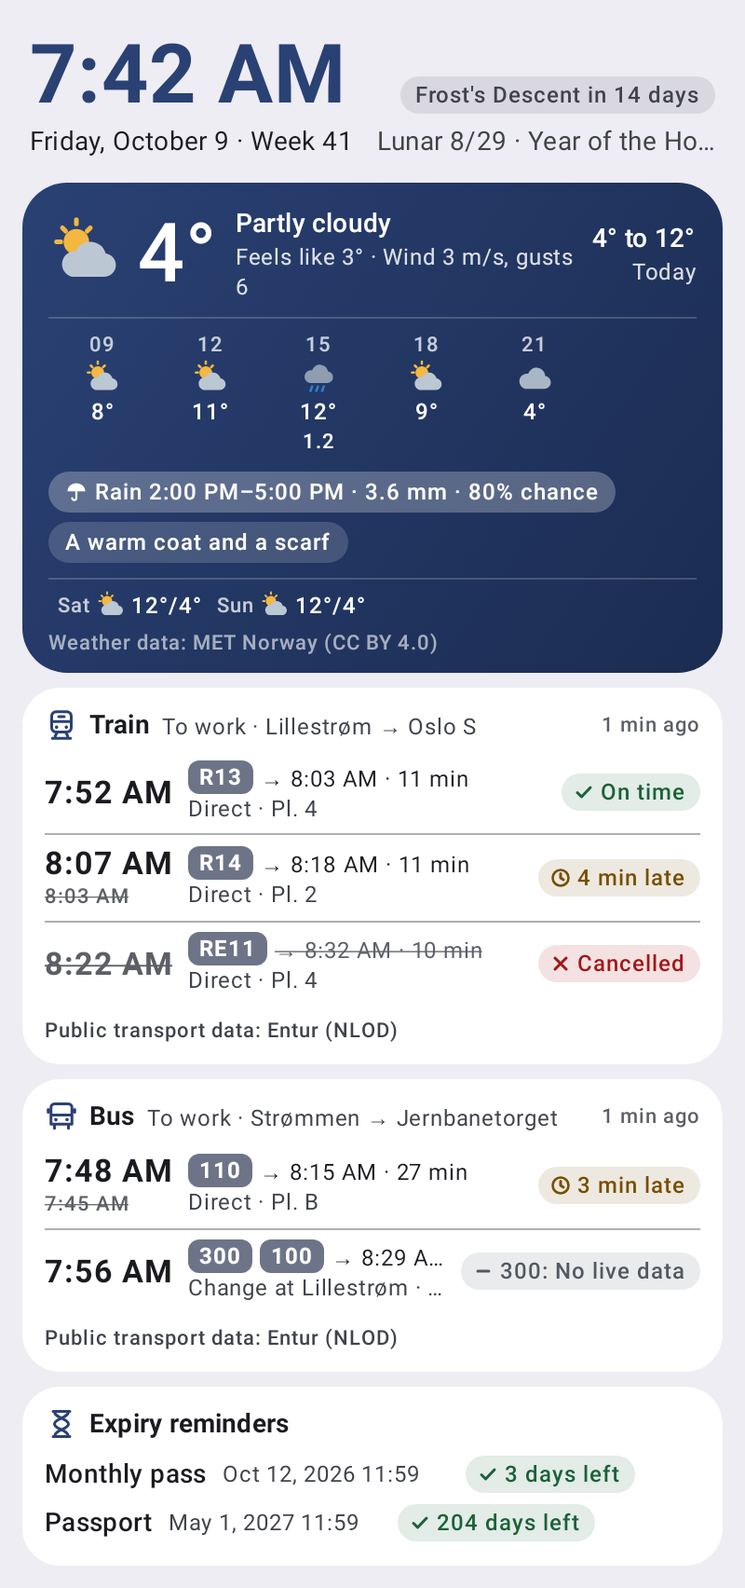
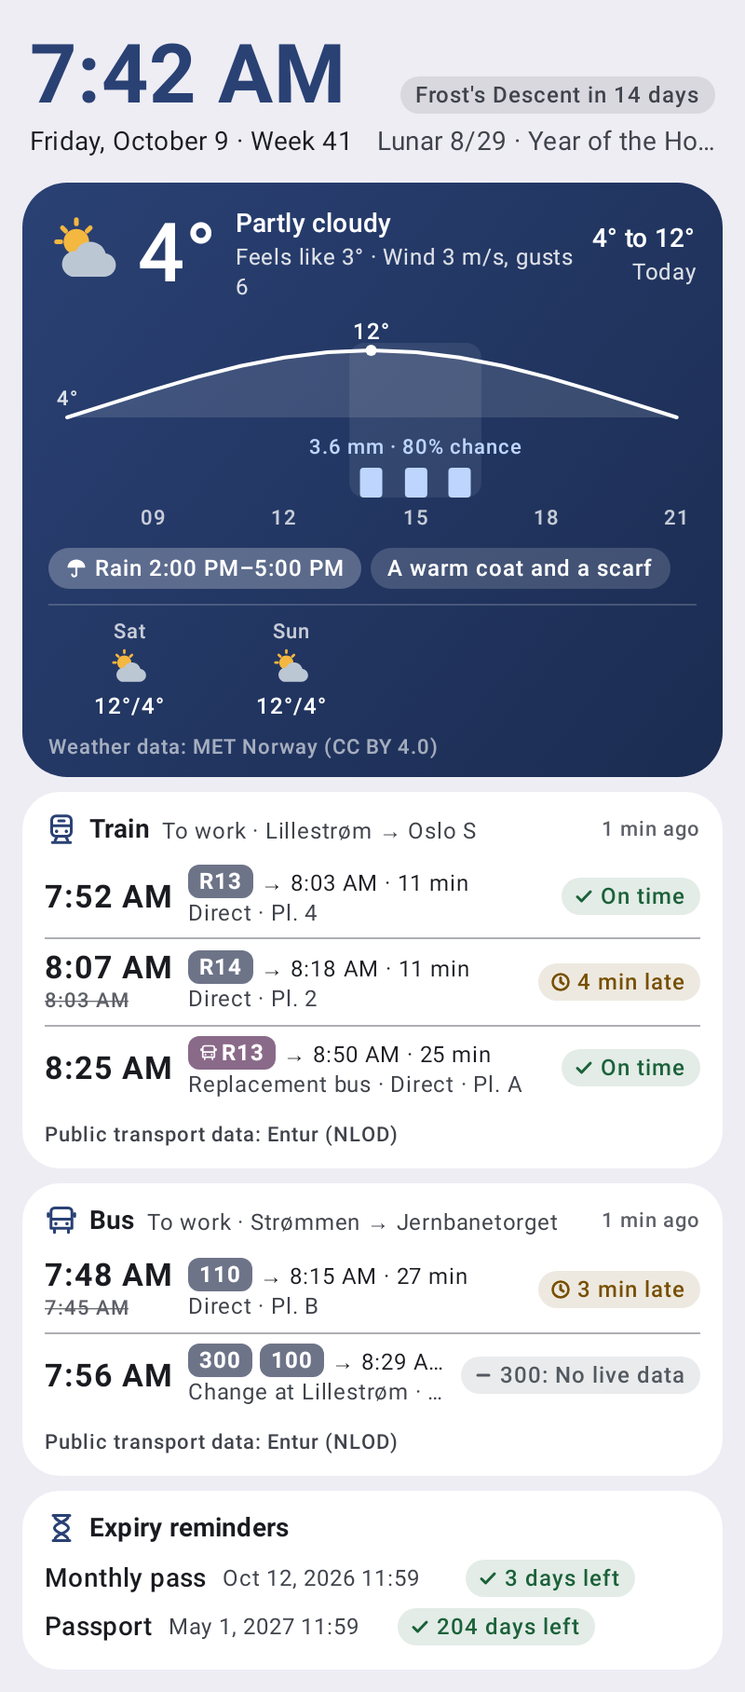
Draw the day as a temperature curve with rain bars
Option A from the weather card proposals. The day's hours become a curve with its high and low marked, rain bars on
their own scale underneath, rain spells shaded and labelled with amount and chance, and the hour every three hours;
it is drawn on one time axis, so curve and bars line up at any width. The outlook keeps every daytime hour instead of
one point per three hours. Advice pills now fit one row (the chart carries the amounts) and the next four days are
stacked columns. README screenshots updated.

把这一天画成温度曲线加雨量柱

采用天气卡片方案 A。这一天的各小时画成一条标出最高与最低的曲线，下方是按自己比例画的雨量柱，降雨时段加底色并标注
雨量与概率，每三小时标一个钟点；画在同一条时间轴上，任何宽度下曲线与雨量柱都对得齐。outlook 改为保留白天的每个
小时，而不是每三小时一个点。建议胶囊排成一行（雨量交给图表），之后四天改为上下排列的四列。README 截图同步更新。

Claude-Session: https://claude.ai/code/session_01UtL9jC5HiMDx1fZLRAYQa4

Changed region(s): [[0.0312, 0.0311, 0.9688, 0.9642], [0.5312, 0.902, 0.8438, 0.9953]]

diff --git a/app/src/main/java/io/github/lonemoonspace/dayloom/feature/weather/ui/WeatherCard.kt b/app/src/main/java/io/github/lonemoonspace/dayloom/feature/weather/ui/WeatherCard.kt
@@ -3,6 +3,7 @@ package io.github.lonemoonspace.dayloom.feature.weather.ui
 import androidx.annotation.DrawableRes
 import androidx.annotation.StringRes
 import androidx.compose.animation.animateContentSize
+import androidx.compose.foundation.Canvas
 import androidx.compose.foundation.Image
 import androidx.compose.foundation.background
 import androidx.compose.foundation.isSystemInDarkTheme
@@ -29,11 +30,22 @@ import androidx.compose.runtime.remember
 import androidx.compose.ui.Alignment
 import androidx.compose.ui.Modifier
 import androidx.compose.ui.draw.clip
+import androidx.compose.ui.geometry.CornerRadius
+import androidx.compose.ui.geometry.Offset
+import androidx.compose.ui.geometry.Size
 import androidx.compose.ui.graphics.Brush
 import androidx.compose.ui.graphics.Color
+import androidx.compose.ui.graphics.Path
+import androidx.compose.ui.graphics.StrokeCap
+import androidx.compose.ui.graphics.StrokeJoin
+import androidx.compose.ui.graphics.drawscope.Stroke
 import androidx.compose.ui.graphics.lerp
 import androidx.compose.ui.res.painterResource
 import androidx.compose.ui.res.stringResource
+import androidx.compose.ui.semantics.contentDescription
+import androidx.compose.ui.semantics.semantics
+import androidx.compose.ui.text.drawText
+import androidx.compose.ui.text.rememberTextMeasurer
 import androidx.compose.ui.text.font.FontWeight
 import androidx.compose.ui.text.style.TextOverflow
 import androidx.compose.ui.unit.Dp
@@ -57,7 +69,6 @@ import io.github.lonemoonspace.dayloom.feature.weather.domain.DayOutlook
 import io.github.lonemoonspace.dayloom.feature.weather.domain.DayOutlookPolicy
 import io.github.lonemoonspace.dayloom.feature.weather.domain.Forecast
 import io.github.lonemoonspace.dayloom.feature.weather.domain.ForecastPoint
-import io.github.lonemoonspace.dayloom.feature.weather.domain.HourWeather
 import io.github.lonemoonspace.dayloom.feature.weather.domain.OutlookDay
 import io.github.lonemoonspace.dayloom.feature.weather.domain.WeatherCondition
 import io.github.lonemoonspace.dayloom.feature.weather.domain.WeatherIcon
@@ -70,10 +81,10 @@ import kotlin.math.roundToInt
 
 /**
  * The weather card for Home, one block in the theme's primary colour (the same on every day, whatever the weather): the
- * weather now, a few hours across the day (today, or tomorrow from the evening on), advice pills for rain, clothing and
- * tips, and the next four days.
- * 家所在地的天气卡，一整块主题主色（不随天气变色）：现在的天气、这一天（今天；入夜后为明天）的几个时间点、降雨、穿衣与
- * 提示的建议胶囊，以及之后四天。
+ * weather now, the day's temperature curve with rain bars (today, or tomorrow from the evening on), one row of advice
+ * pills for rain, clothing and tips, and the next four days.
+ * 家所在地的天气卡，一整块主题主色（不随天气变色）：现在的天气、这一天（今天；入夜后为明天）的温度曲线与雨量柱、
+ * 一行降雨、穿衣与提示的建议胶囊，以及之后四天。
  */
 @Composable
 internal fun WeatherCard(
@@ -105,15 +116,12 @@ internal fun WeatherCard(
                 .padding(start = 14.dp, end = 14.dp, top = 12.dp, bottom = 8.dp),
         ) {
             NowRow(current, outlook, stale = isStale(snapshot, now.toInstant()))
-            outlook?.timeline?.takeIf { it.size >= 2 }?.let { hours ->
-                Divider()
-                Row {
-                    hours.take(TIMELINE_POINTS).forEach { HourCell(it, Modifier.weight(1f)) }
-                    // Keep the columns the width of a full day when fewer hours are left. / 剩下的小时不多时，列宽仍按整天算。
-                    repeat(TIMELINE_POINTS - hours.size.coerceAtMost(TIMELINE_POINTS)) { Spacer(Modifier.weight(1f)) }
-                }
+            val chart = outlook?.takeIf { o -> o.hours.count { it.temperature != null } >= MIN_CHART_HOURS }
+            if (chart != null) {
+                Spacer(Modifier.height(6.dp))
+                DayChart(chart)
             }
-            outlook?.let { AdvicePills(it) }
+            outlook?.let { AdvicePills(it, amountsInChart = chart != null) }
             if (error != null) {
                 Spacer(Modifier.height(6.dp))
                 HeroPill(error.userMessage().asString(), icon = R.drawable.ic_status_warn, strong = true)
@@ -125,6 +133,7 @@ internal fun WeatherCard(
                     strip.forEach { DayCell(it, Modifier.weight(1f)) }
                     repeat(STRIP_DAYS - strip.size) { Spacer(Modifier.weight(1f)) }
                 }
+                Spacer(Modifier.height(2.dp))
             }
             Text(
                 text = stringResource(R.string.weather_attribution),
@@ -210,7 +219,7 @@ private fun NowRow(current: ForecastPoint, outlook: DayOutlook?, stale: Boolean)
  */
 @OptIn(ExperimentalLayoutApi::class)
 @Composable
-private fun AdvicePills(outlook: DayOutlook) {
+private fun AdvicePills(outlook: DayOutlook, amountsInChart: Boolean) {
     val time = rememberTimeFormatter()
     val wet = outlook.rainSpells.isNotEmpty()
     Spacer(Modifier.height(8.dp))
@@ -219,10 +228,9 @@ private fun AdvicePills(outlook: DayOutlook) {
             val spells = outlook.rainSpells.take(MAX_SPELLS).map {
                 stringResource(R.string.weather_rain_spell, it.start.format(time), it.end.format(time))
             }
-            val text = (spells + listOfNotNull(
-                stringResource(R.string.weather_rain_total, millimetres(outlook.precipMm)),
-                outlook.precipChance?.let { stringResource(R.string.weather_rain_chance, it) },
-            )).joinToString(" · ")
+            // The chart already labels amount and chance. / 图表上已经标了雨量与概率。
+            val amounts = if (amountsInChart) emptyList() else rainAmounts(outlook)
+            val text = (spells + amounts).joinToString(" · ")
             HeroPill(text, icon = R.drawable.ic_status_umbrella, strong = true)
         } else {
             HeroPill(stringResource(R.string.weather_no_rain))
@@ -260,19 +268,126 @@ private fun Divider() {
 }
 
 @Composable
-private fun HourCell(hour: HourWeather, modifier: Modifier) {
+private fun rainAmounts(outlook: DayOutlook): List<String> = listOfNotNull(
+    stringResource(R.string.weather_rain_total, millimetres(outlook.precipMm)),
+    outlook.precipChance?.let { stringResource(R.string.weather_rain_chance, it) },
+)
+
+/**
+ * The day at a glance: a temperature curve with its high and low marked, rain bars on their own scale underneath, the
+ * rain spells shaded, and the hour every three hours. Drawn rather than laid out in columns, so the curve and the bars
+ * share one time axis whatever the screen width.
+ * 一眼看全天：标出最高与最低的温度曲线，下方是按自己比例画的雨量柱，降雨时段加底色，每三小时标一个钟点。用画的而不是
+ * 按列排布，曲线与雨量柱在任何屏幕宽度下都共用同一条时间轴。
+ */
+@Composable
+private fun DayChart(outlook: DayOutlook) {
+    val hours = outlook.hours.filter { it.temperature != null }
     val content = LocalContentColor.current
-    Column(modifier = modifier, horizontalAlignment = Alignment.CenterHorizontally) {
-        Text(hour.time.format(rememberPatternFormatter("HH")), style = MaterialTheme.typography.labelSmall, color = content.copy(alpha = 0.75f))
-        if (hour.symbolCode.isNotEmpty()) WeatherIconImage(hour.symbolCode, size = 20.dp) else Spacer(Modifier.height(20.dp))
-        Text(hour.temperature?.let { "${it.roundToInt()}°" }.orEmpty(), style = MaterialTheme.typography.labelMedium)
-        // An empty line on dry hours keeps the columns the same height. / 没雨也占一行，各列高度才对得齐。
-        Text(
-            text = if (hour.precipMm >= DayOutlookPolicy.UMBRELLA_MM) millimetres(hour.precipMm) else "",
-            style = MaterialTheme.typography.labelSmall,
-            fontWeight = FontWeight.SemiBold,
-            maxLines = 1,
-        )
+    val rainColor = lerp(content, RAIN_TINT, RAIN_TINT_AMOUNT)
+    val measurer = rememberTextMeasurer()
+    val hourFormat = rememberPatternFormatter("HH")
+    val time = rememberTimeFormatter()
+    val labelStyle = MaterialTheme.typography.labelSmall.copy(color = content.copy(alpha = 0.75f))
+    val valueStyle = MaterialTheme.typography.labelMedium.copy(color = content, fontWeight = FontWeight.SemiBold)
+    val rainStyle = MaterialTheme.typography.labelSmall.copy(color = content.copy(alpha = 0.9f), fontWeight = FontWeight.SemiBold)
+    val rainLabel = rainAmounts(outlook).joinToString(" · ").takeIf { outlook.rainSpells.isNotEmpty() }
+    val ticks = DayOutlookPolicy.ticks(hours).map { it.time to it.time.format(hourFormat) }
+    val description = (
+        listOf(stringResource(R.string.weather_range, outlook.minTemp.roundToInt(), outlook.maxTemp.roundToInt())) +
+            outlook.rainSpells.map { stringResource(R.string.weather_rain_spell, it.start.format(time), it.end.format(time)) }
+        ).joinToString(", ")
+    Canvas(
+        Modifier
+            .fillMaxWidth()
+            .height(if (rainLabel != null) CHART_HEIGHT_WET else CHART_HEIGHT_DRY)
+            .semantics { contentDescription = description },
+    ) {
+        val labelHeight = measurer.measure("0", labelStyle).size.height.toFloat()
+        val valueHeight = measurer.measure("0", valueStyle).size.height.toFloat()
+        val side = 10.dp.toPx()
+        val first = hours.first().time.toEpochSecond().toFloat()
+        val span = (hours.last().time.toEpochSecond() - hours.first().time.toEpochSecond()).toFloat().coerceAtLeast(1f)
+        val step = (size.width - 2 * side) / (hours.size - 1).coerceAtLeast(1)
+        fun x(at: java.time.ZonedDateTime) = side + (at.toEpochSecond() - first) / span * (size.width - 2 * side)
+
+        // Bottom up: hour labels, rain bars, the rain label, then the curve in what is left.
+        // 自下而上：钟点、雨量柱、雨量标注，剩下的空间画曲线。
+        val tickTop = size.height - labelHeight
+        val rainBottom = tickTop - 3.dp.toPx()
+        val rainTop = rainBottom - RAIN_BAND.toPx()
+        val rainLabelTop = rainTop - labelHeight - 1.dp.toPx()
+        val tempBottom = (if (rainLabel != null) rainLabelTop else rainTop) - 6.dp.toPx()
+        val tempTop = valueHeight + 4.dp.toPx()
+
+        val temps = hours.map { it.temperature!! }
+        val low = temps.min()
+        val high = temps.max()
+        // At least a few degrees of range, or a flat day would be drawn as a wild curve. / 至少几度的范围，否则平稳的一天会被画成剧烈起伏。
+        val pad = ((MIN_RANGE_C - (high - low)) / 2).coerceAtLeast(0.0)
+        val lo = low - pad
+        val hi = high + pad
+        fun y(t: Double) = (tempBottom - (t - lo) / (hi - lo) * (tempBottom - tempTop)).toFloat()
+
+        outlook.rainSpells.forEach { spell ->
+            val left = x(spell.start) - step / 2
+            val right = x(spell.end.minusHours(1)) + step / 2
+            drawRoundRect(
+                color = content.copy(alpha = 0.08f),
+                topLeft = Offset(left.coerceAtLeast(0f), tempTop - 4.dp.toPx()),
+                size = Size((right - left).coerceAtMost(size.width), rainBottom - tempTop + 4.dp.toPx()),
+                cornerRadius = CornerRadius(8.dp.toPx()),
+            )
+        }
+
+        val line = Path()
+        hours.forEachIndexed { i, h -> if (i == 0) line.moveTo(x(h.time), y(h.temperature!!)) else line.lineTo(x(h.time), y(h.temperature!!)) }
+        val area = Path().apply {
+            addPath(line)
+            lineTo(x(hours.last().time), tempBottom)
+            lineTo(x(hours.first().time), tempBottom)
+            close()
+        }
+        drawPath(area, content.copy(alpha = 0.12f))
+        drawPath(line, content, style = Stroke(width = 2.dp.toPx(), cap = StrokeCap.Round, join = StrokeJoin.Round))
+
+        // High above its point; low too, unless it sits right next to the high. / 最高温标在点上方；最低温同样，除非紧挨着最高温。
+        val highHour = hours[temps.indexOf(high)]
+        val lowHour = hours[temps.indexOf(low)]
+        drawCircle(content, radius = 3.dp.toPx(), center = Offset(x(highHour.time), y(high)))
+        fun label(text: String, at: Offset, style: androidx.compose.ui.text.TextStyle, above: Boolean = true) {
+            val layout = measurer.measure(text, style)
+            val left = (at.x - layout.size.width / 2).coerceIn(0f, size.width - layout.size.width)
+            val top = if (above) at.y - layout.size.height - 2.dp.toPx() else at.y + 2.dp.toPx()
+            drawText(layout, topLeft = Offset(left, top.coerceAtLeast(0f)))
+        }
+        label("${high.roundToInt()}°", Offset(x(highHour.time), y(high)), valueStyle)
+        if (high - low >= 1 && kotlin.math.abs(x(lowHour.time) - x(highHour.time)) > 2.5f * step) {
+            label("${low.roundToInt()}°", Offset(x(lowHour.time), y(low)), labelStyle.copy(color = content.copy(alpha = 0.85f)))
+        }
+
+        val barWidth = (step * 0.6f).coerceAtMost(12.dp.toPx())
+        val maxRain = maxOf(RAIN_SCALE_MM, hours.maxOf { it.precipMm })
+        hours.filter { it.precipMm >= DayOutlookPolicy.UMBRELLA_MM }.forEach { h ->
+            val height = (h.precipMm / maxRain * (rainBottom - rainTop)).toFloat().coerceAtLeast(2.dp.toPx())
+            drawRoundRect(
+                color = rainColor,
+                topLeft = Offset(x(h.time) - barWidth / 2, rainBottom - height),
+                size = Size(barWidth, height),
+                cornerRadius = CornerRadius(2.dp.toPx()),
+            )
+        }
+        if (rainLabel != null) {
+            val wettest = outlook.rainSpells.maxBy { spell -> hours.filter { !it.time.isBefore(spell.start) && it.time.isBefore(spell.end) }.sumOf { it.precipMm } }
+            val centre = (x(wettest.start) + x(wettest.end.minusHours(1))) / 2
+            label(rainLabel, Offset(centre, rainLabelTop), rainStyle, above = false)
+        }
+
+        ticks.forEach { (at, text) ->
+            val layout = measurer.measure(text, labelStyle)
+            val left = (x(at) - layout.size.width / 2).coerceIn(0f, size.width - layout.size.width)
+            drawText(layout, topLeft = Offset(left, tickTop))
+        }
     }
 }
 
@@ -281,11 +396,9 @@ private fun DayCell(day: DailyForecast, modifier: Modifier) {
     // Weekday names only: "Tomorrow" is too wide for a quarter of the row in English. / 只用星期：英文的「Tomorrow」在四分之一行里放不下。
     val label = day.date.format(rememberPatternFormatter("EEE"))
     val content = LocalContentColor.current
-    Row(modifier = modifier, horizontalArrangement = Arrangement.Center, verticalAlignment = Alignment.CenterVertically) {
+    Column(modifier = modifier, horizontalAlignment = Alignment.CenterHorizontally) {
         Text(label, style = MaterialTheme.typography.labelSmall, color = content.copy(alpha = 0.75f), maxLines = 1)
-        Spacer(Modifier.width(3.dp))
-        WeatherIconImage(day.symbolCode, size = 16.dp)
-        Spacer(Modifier.width(3.dp))
+        WeatherIconImage(day.symbolCode, size = 22.dp, modifier = Modifier.padding(vertical = 1.dp))
         Text(
             "${day.maxTemp.roundToInt()}°/${day.minTemp.roundToInt()}°",
             style = MaterialTheme.typography.labelMedium,
@@ -384,8 +497,22 @@ internal fun conditionText(condition: WeatherCondition): Int = when (condition) 
 /** How much darker the bottom-right corner is than the top-left. / 右下角比左上角暗多少。 */
 private const val GRADIENT_DARKEN = 0.22f
 
-/** Every three hours from 06:00 to 21:00 fits six columns. / 06:00 到 21:00 每三小时一列，共六列。 */
-private const val TIMELINE_POINTS = 6
+/** Fewer hours than this (late in the evening window) make no curve worth drawing. / 少于这么多小时（时间窗快结束时）画不出有意义的曲线。 */
+private const val MIN_CHART_HOURS = 3
+
+private val CHART_HEIGHT_WET = 118.dp
+private val CHART_HEIGHT_DRY = 100.dp
+private val RAIN_BAND = 20.dp
+
+/** The curve spans at least this many degrees. / 曲线至少覆盖这么多度。 */
+private const val MIN_RANGE_C = 6.0
+
+/** An hour this wet fills the rain band; heavier hours rescale it. / 一小时达到这个雨量就占满雨量带；更大的雨会重新按比例缩放。 */
+private const val RAIN_SCALE_MM = 1.5
+
+/** Rain bars are the card's text colour pulled towards blue, so they read on any wallpaper colour. / 雨量柱是卡片文字色向蓝色偏移，任何壁纸色上都看得清。 */
+private val RAIN_TINT = Color(0xFF8AB4F8)
+private const val RAIN_TINT_AMOUNT = 0.55f
 
 /** More rain spells than this do not fit one line. / 降雨时段超过这个数一行放不下。 */
 private const val MAX_SPELLS = 2

diff --git a/app/src/main/java/io/github/lonemoonspace/dayloom/feature/weather/domain/DayOutlookPolicy.kt b/app/src/main/java/io/github/lonemoonspace/dayloom/feature/weather/domain/DayOutlookPolicy.kt
@@ -21,7 +21,7 @@ enum class WeatherTip { THUNDER, HEAVY_RAIN, UMBRELLA, SNOW, SLIPPERY, STRONG_WI
 /** A stretch of hours with rain worth an umbrella; [end] is exclusive. / 一段需要带伞的降雨时段；[end] 不含。 */
 data class RainSpell(val start: ZonedDateTime, val end: ZonedDateTime)
 
-/** One hour of the day's timeline. / 当天时间线上的一个小时。 */
+/** One hour of the day's chart. / 当天图表上的一个小时。 */
 data class HourWeather(val time: ZonedDateTime, val symbolCode: String, val temperature: Double?, val precipMm: Double)
 
 /**
@@ -47,8 +47,8 @@ data class DayOutlook(
     val uvMax: Double?,
     val clothing: ClothingLevel,
     val tips: List<WeatherTip>,
-    /** Every [DayOutlookPolicy.TIMELINE_STEP_HOURS] hours across the window. / 时间窗内每 [DayOutlookPolicy.TIMELINE_STEP_HOURS] 小时一个点。 */
-    val timeline: List<HourWeather>,
+    /** Every hour of the window, for the temperature curve and rain bars. / 时间窗内的每个小时，用于温度曲线与雨量柱。 */
+    val hours: List<HourWeather>,
 )
 
 /**
@@ -126,11 +126,13 @@ object DayOutlookPolicy {
             uvMax = summary.uvMax,
             clothing = clothing(summary.feelsMin),
             tips = tips(summary),
-            timeline = hours
-                .filter { (t, _) -> (t.hour - DAY_START_HOUR) % TIMELINE_STEP_HOURS == 0L }
-                .map { (t, p) -> HourWeather(t, p.symbol1h, p.temperature, p.precipMm) },
+            hours = hours.map { (t, p) -> HourWeather(t, p.symbol1h, p.temperature, p.precipMm) },
         )
     }
+
+    /** The hours labelled under the chart: every [TIMELINE_STEP_HOURS] hours from 06:00. / 图表下方标注的钟点：从 06:00 起每 [TIMELINE_STEP_HOURS] 小时一个。 */
+    fun ticks(hours: List<HourWeather>): List<HourWeather> =
+        hours.filter { (it.time.hour - DAY_START_HOUR) % TIMELINE_STEP_HOURS == 0L }
 
     /**
      * People dress for the coldest part of the day they are out in, so the lowest feels-like temperature decides.

diff --git a/app/src/test/java/io/github/lonemoonspace/dayloom/feature/weather/DayOutlookPolicyTest.kt b/app/src/test/java/io/github/lonemoonspace/dayloom/feature/weather/DayOutlookPolicyTest.kt
@@ -102,9 +102,10 @@ class DayOutlookPolicyTest {
     }
 
     @Test
-    fun `timeline every three hours from six`() {
+    fun `every daytime hour for the chart, labelled every three hours from six`() {
         val outlook = DayOutlookPolicy.outlook(points(), at(5, 6))!!
-        assertEquals(listOf(6, 9, 12, 15, 18, 21), outlook.timeline.map { it.time.hour })
+        assertEquals((6..21).toList(), outlook.hours.map { it.time.hour })
+        assertEquals(listOf(6, 9, 12, 15, 18, 21), DayOutlookPolicy.ticks(outlook.hours).map { it.time.hour })
     }
 
     @Test

diff --git a/CHANGELOG.md b/CHANGELOG.md
@@ -63,6 +63,8 @@ looks it up literally.
 - Layout fixes found by rendering the home screen: card titles no longer cut the route short, the timetable time of a late
   departure sits under the expected one (12-hour clocks fit), the four-day strip uses weekday names, the English lunar
   line puts the date first, and the date keeps its colour in dark mode. README screenshots added.
+- Weather card: the day is now a temperature curve with its high and low and rain bars underneath, rain spells shaded
+  and labelled with amount and chance; the advice pills fit one row and the next four days are stacked columns.
 - News settings: server and token are saved with one "Save and connect" button that shows the unread count or what went
   wrong (two separate save buttons made it easy to save only one); an address without a scheme gets https, and http://
   says why it cannot be used.
@@ -108,6 +110,8 @@ looks it up literally.
 - 打磨（M7）：设置里的「关于」卡片可以查看数据来源、隐私声明与开源许可（含 lunar-java 的 MIT 声明）；隐私声明另见 `PRIVACY.zh-CN.md`。
 - 渲染首页时发现并修正的排版问题：卡片标题不再过早截断路线；晚点班次的时刻表时间放到预计时间下面（12 小时制也放得下）；四天预报
   一律用星期；英文农历一行先写日期；深色模式下日期颜色正确。README 加入截图。
+- 天气卡片：这一天改为温度曲线（标出最高与最低）加下方的雨量柱，降雨时段加底色并标注雨量与概率；建议胶囊排成一行，
+  之后四天改为上下排列的四列。
 - 新闻设置：服务器与令牌用同一个「保存并连接」按钮保存，并显示未读数或出错原因（原来两个保存按钮，很容易只存了一个）；
   没写协议的地址自动补 https，http:// 会说明为什么不能用。
 - 模块标签页：打开「新闻」可能显示另一个模块的页面，若那个模块已被关闭则是空白页。现在每个模块标签页都有自己的路由，

diff --git a/docs/design.md b/docs/design.md
@@ -318,7 +318,7 @@ val allModules: List<FeatureModule> = listOf(
 
 ### 11.1 天气 `weather`
 
-- **功能**：家所在地现在的天气（体感、风与阵风），然后是这一天：18:00 前是今天，18:00 起是明天（`DayOutlookPolicy`，白天时段 06:00–22:00）：最低/最高与体感温度、每三小时一点的时间线、降雨时段及雨量与概率、穿衣建议（按最低体感温度）与温馨提示（带伞、大雨、雷暴、雨雪、路滑、大风、炎热、防晒、温差）；最后是四天预报横排。
+- **功能**：家所在地现在的天气（体感、风与阵风），然后是这一天：18:00 前是今天，18:00 起是明天（`DayOutlookPolicy`，白天时段 06:00–22:00）：最低/最高与体感温度、逐小时的温度曲线（标出最高与最低）及其下方的雨量柱（降雨时段加底色并标注雨量与概率，每三小时标一个钟点）、穿衣建议（按最低体感温度）与温馨提示（带伞、大雨、雷暴、雨雪、路滑、大风、炎热、防晒、温差）；最后是四天预报横排。
 - **数据源**：MET Norway Locationforecast 2.0 `complete`（全球；用 `complete` 是为了体感温度、阵风、紫外线与降水概率）。
 - **设置**：无——固定为家。
 - **来源**：`weather.forecast`。

diff --git a/docs/design.en.md b/docs/design.en.md
@@ -319,7 +319,7 @@ Module settings refer to these shared items — weather defaults to "Home", traf
 
 ### 11.1 Weather `weather`
 
-- **Features**: the weather at Home now (feels-like, wind and gusts), then the day: until 18:00 today, from 18:00 tomorrow (`DayOutlookPolicy`, daytime hours 06:00–22:00): low/high and feels-like, a three-hourly timeline, rain spells with amount and chance, what to wear (from the lowest feels-like temperature) and tips (umbrella, heavy rain, thunder, snow, icy roads, strong wind, heat, sunscreen, layers); then a four-day strip.
+- **Features**: the weather at Home now (feels-like, wind and gusts), then the day: until 18:00 today, from 18:00 tomorrow (`DayOutlookPolicy`, daytime hours 06:00–22:00): low/high and feels-like, an hourly temperature curve (high and low marked) with rain bars underneath (rain spells shaded and labelled with amount and chance, the hour marked every three hours), what to wear (from the lowest feels-like temperature) and tips (umbrella, heavy rain, thunder, snow, icy roads, strong wind, heat, sunscreen, layers); then a four-day strip.
 - **Data source**: MET Norway Locationforecast 2.0 `complete` (worldwide; `complete` for feels-like, gusts, UV and rain probability).
 - **Settings**: none — always Home.
 - **Sources**: `weather.forecast`.
